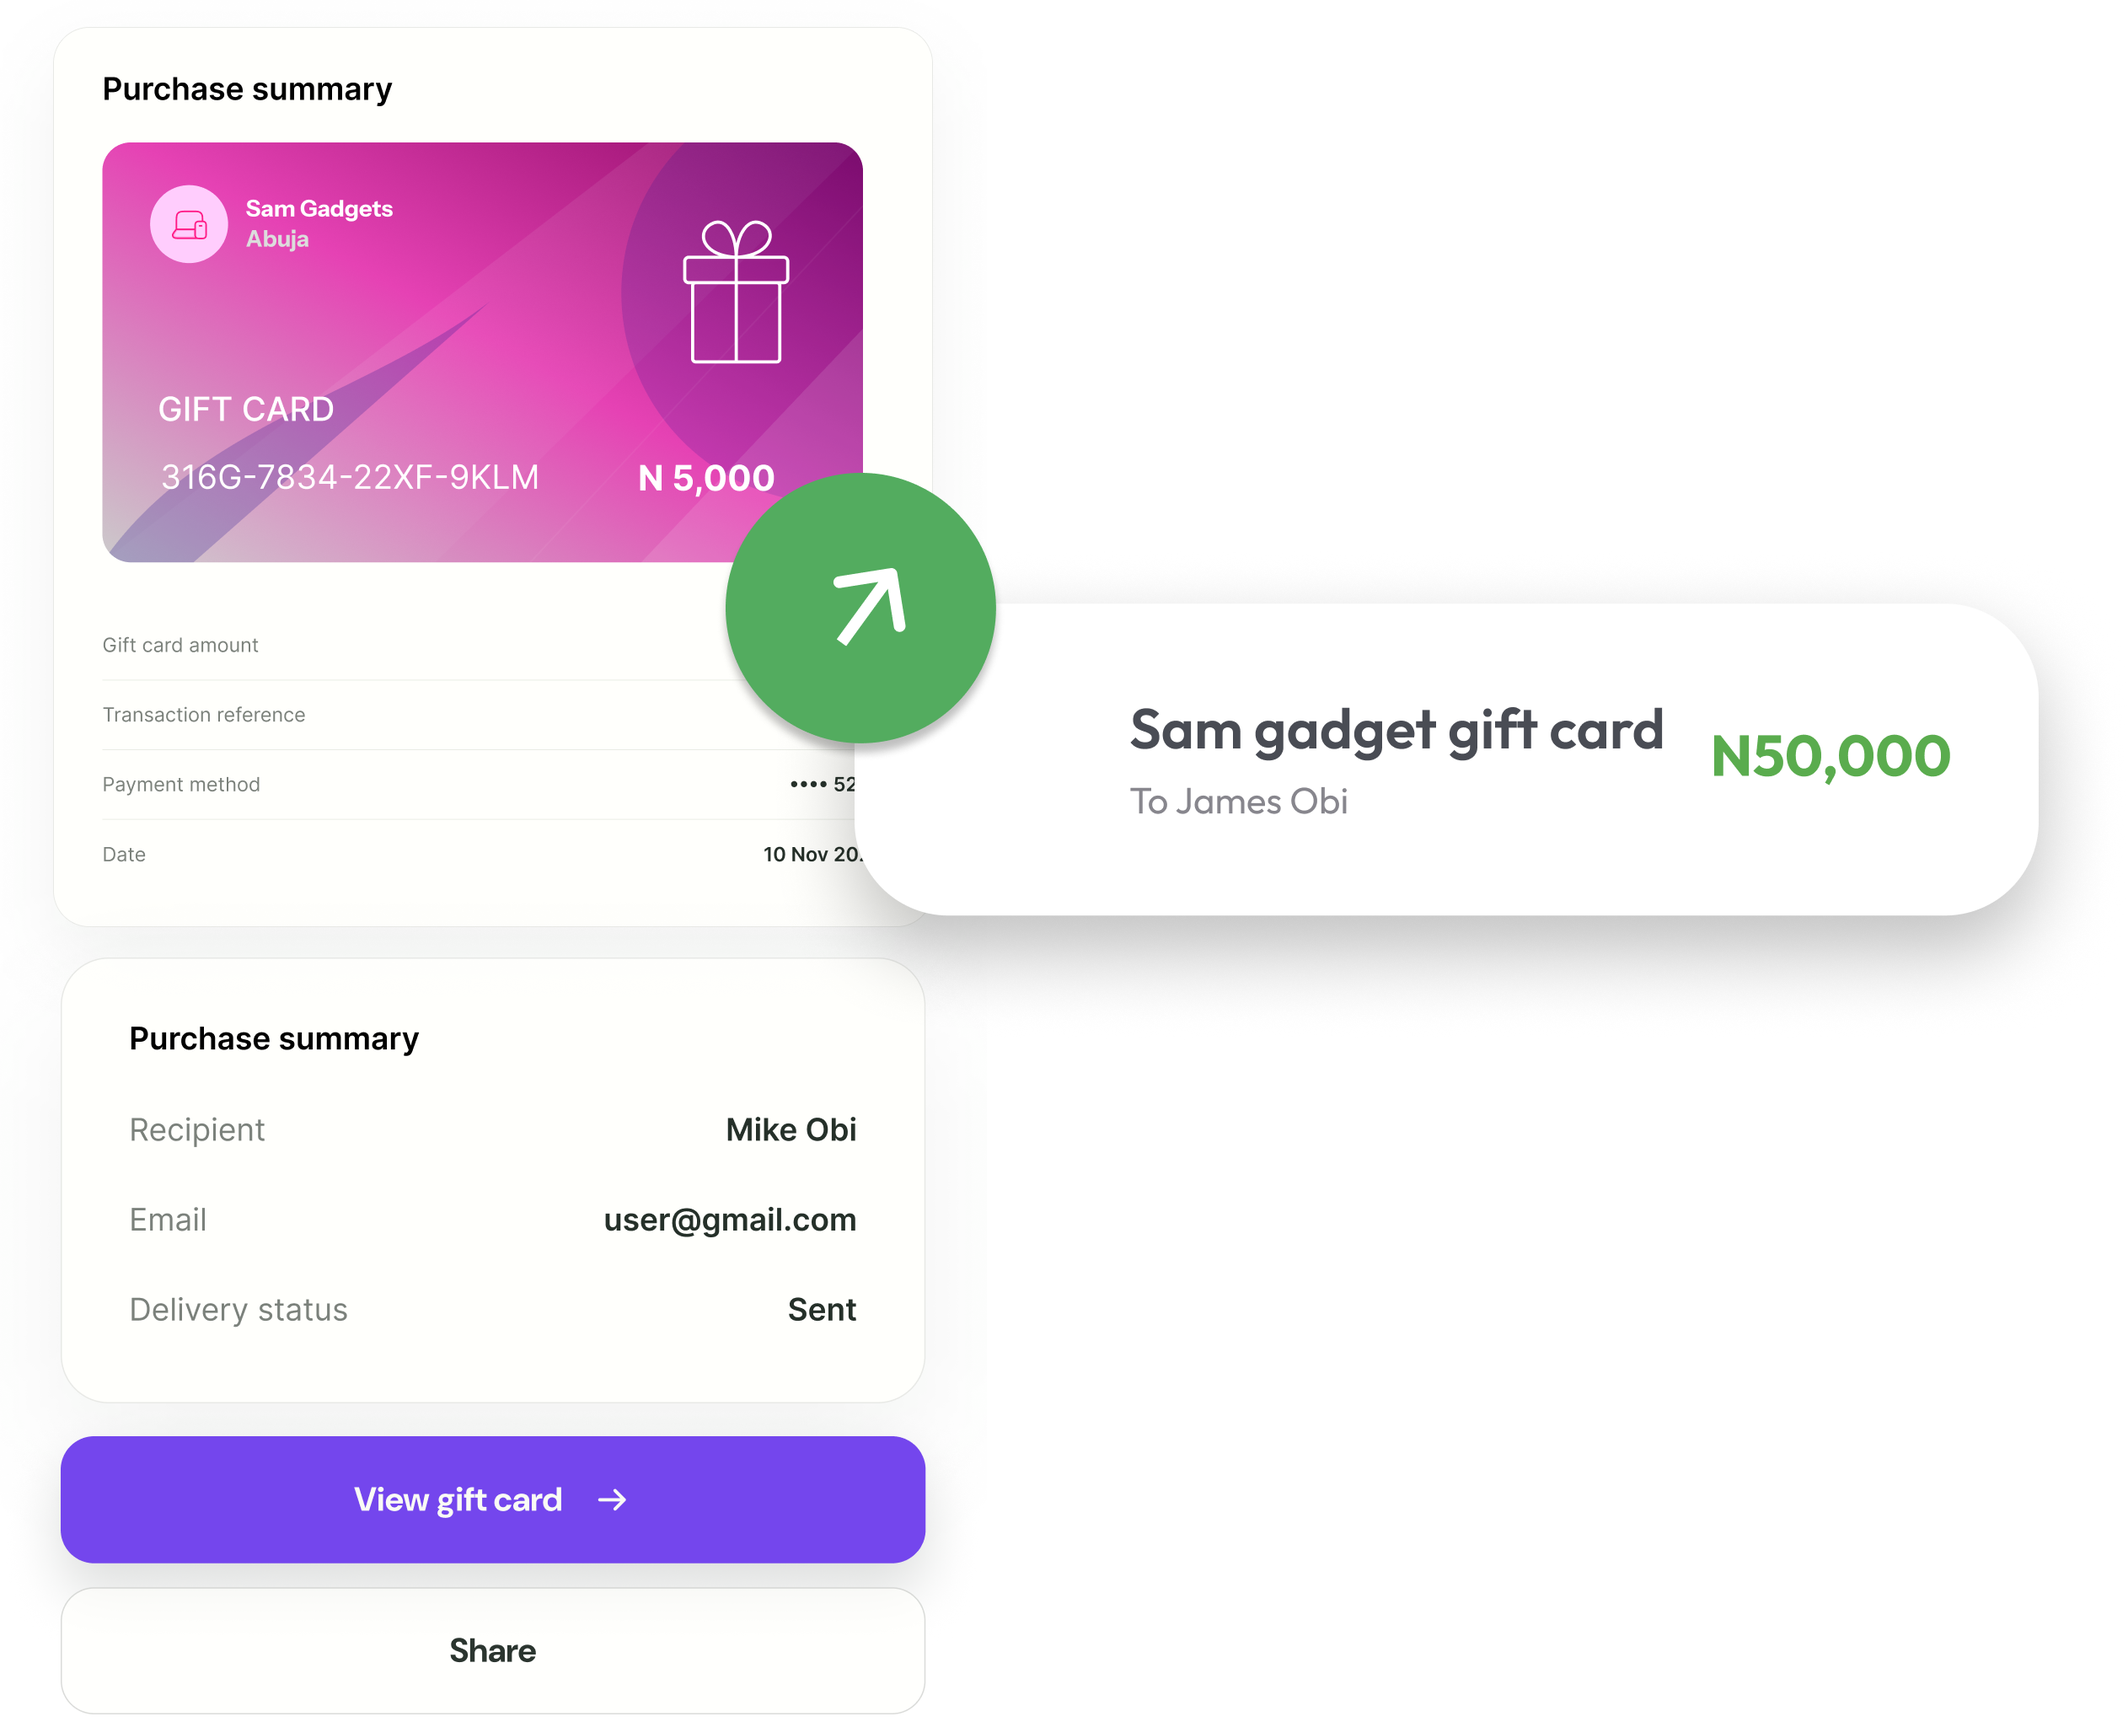
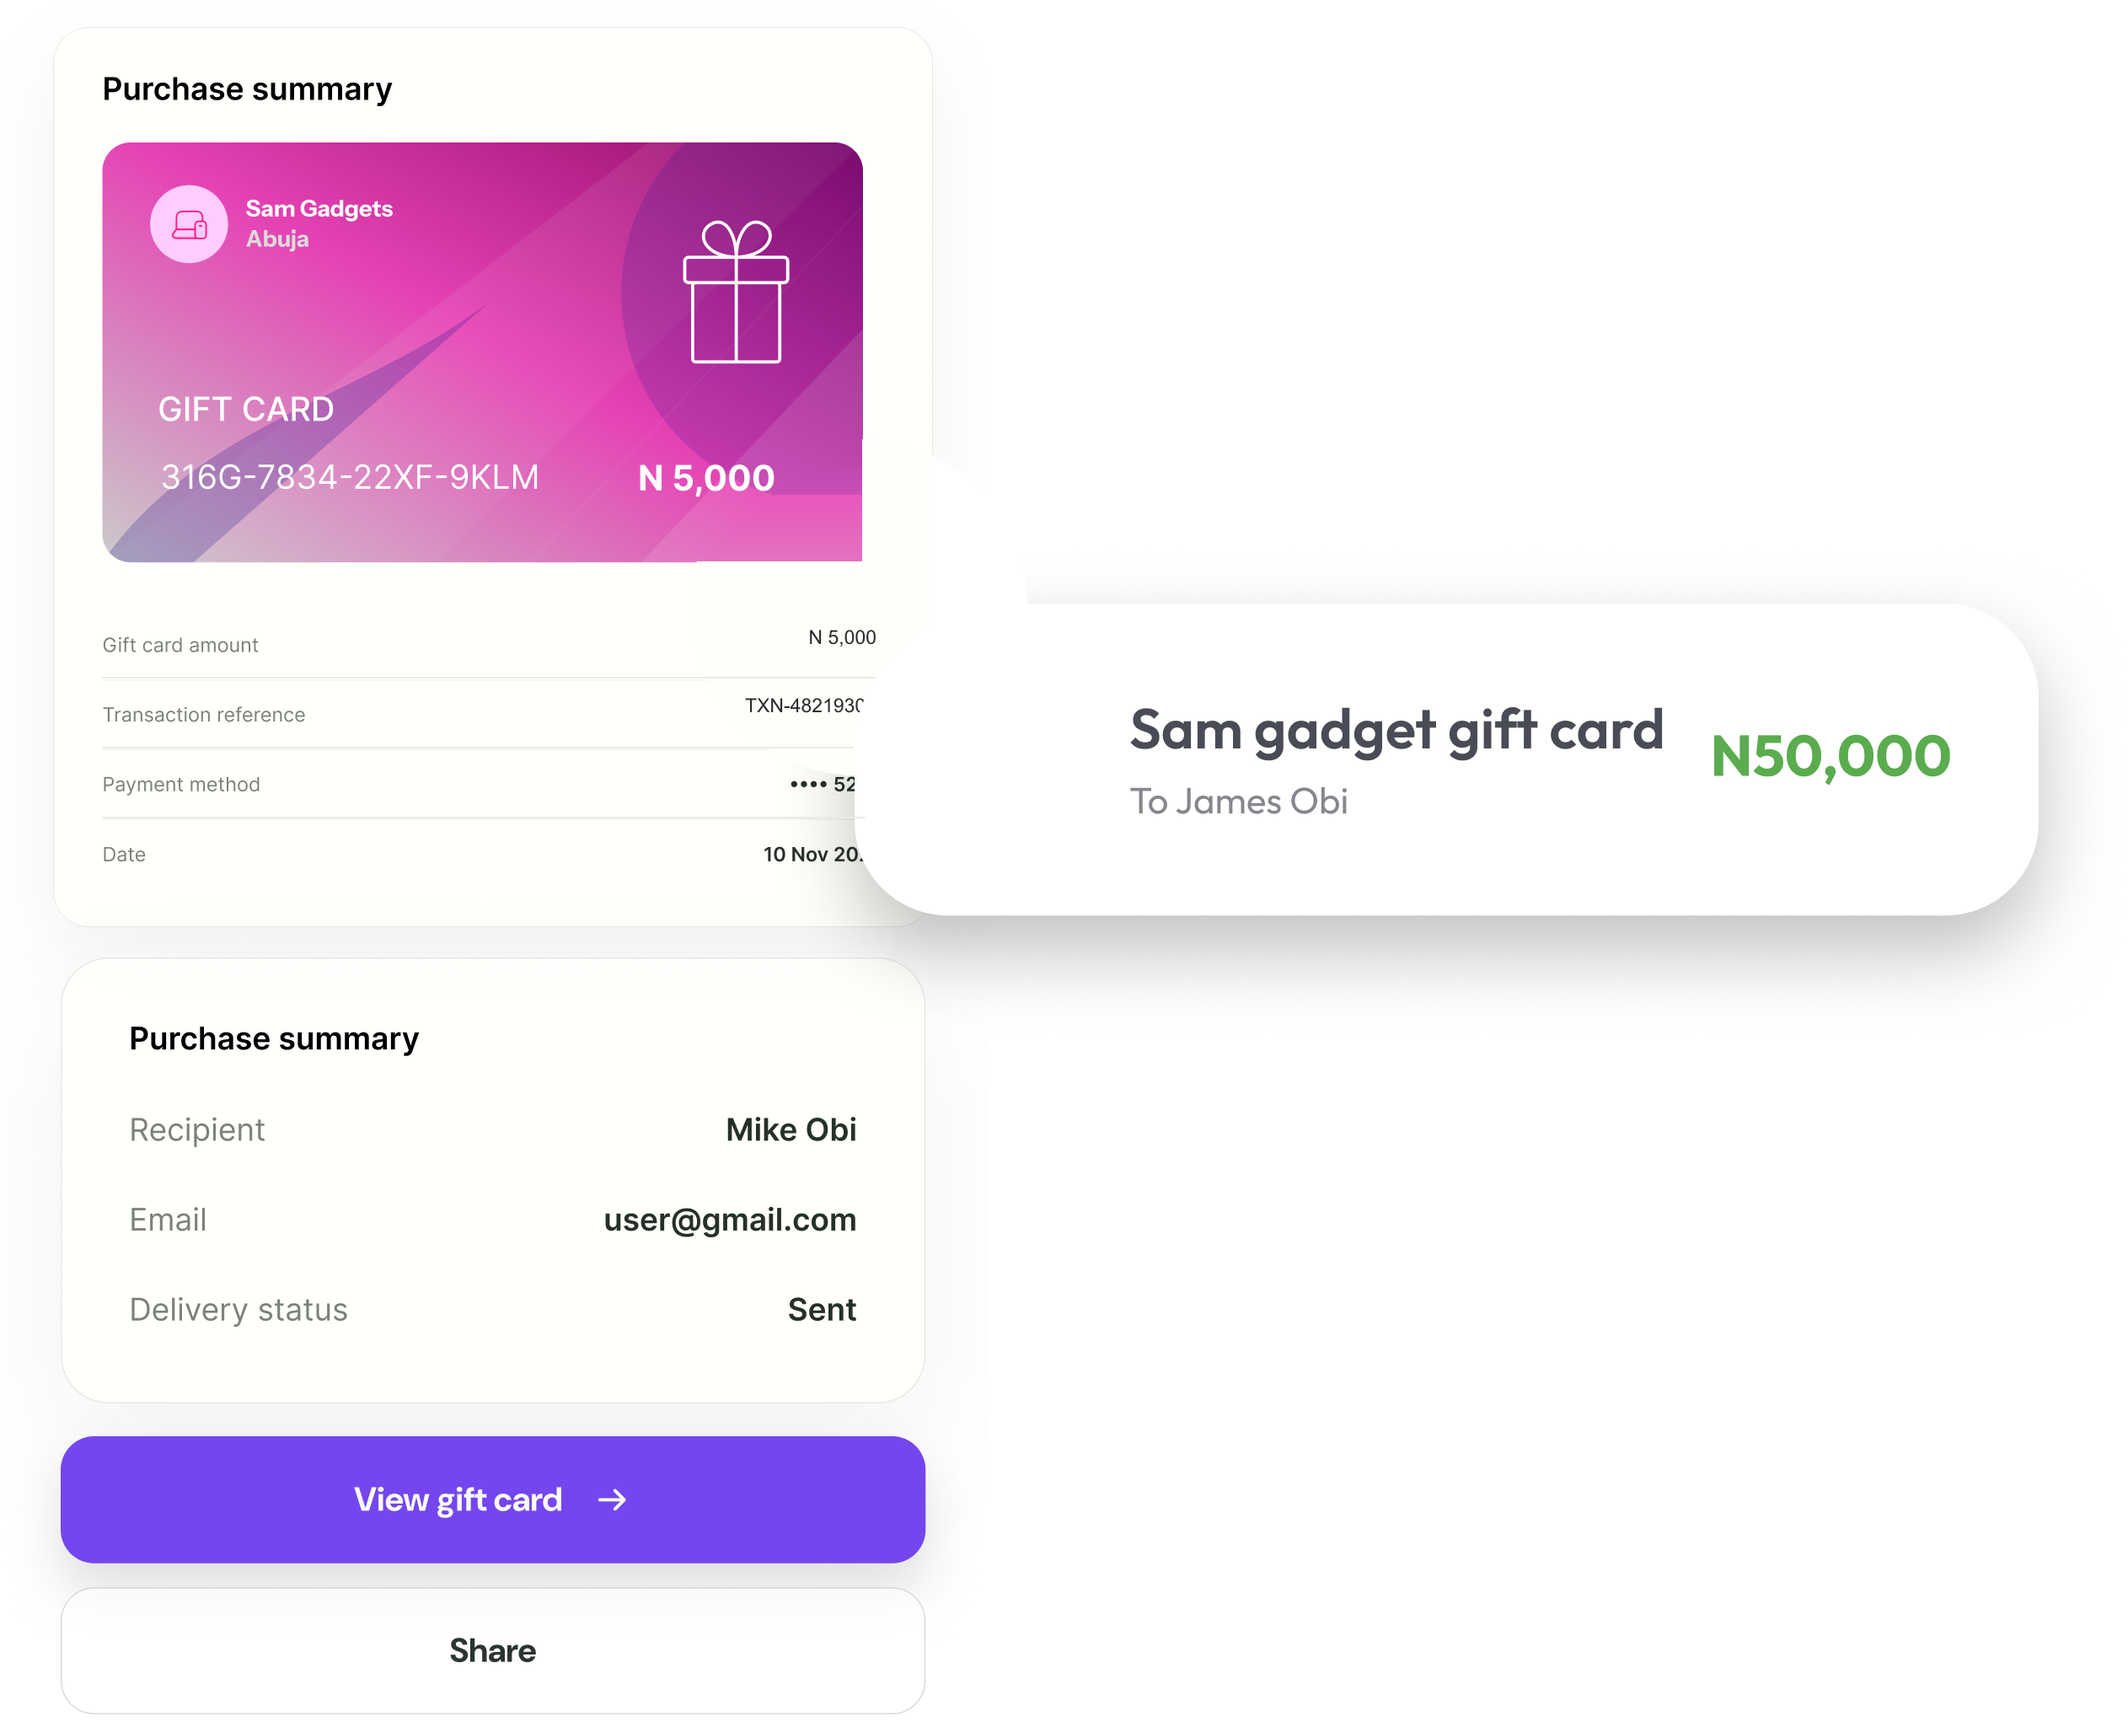
Store gift cards: green arrow circle removed from the purchase picture

Changed region(s): [[0.3398, 0.2499, 0.4943, 0.4373]]

diff --git a/apps/marketing-web/store-gift-cards.html b/apps/marketing-web/store-gift-cards.html
@@ -276,7 +276,7 @@
               <div class="pl-visual__box pl-visual__box--center"><div class="pl-cust pl-cust--g1"><img src="assets/GiftCards/choose.webp?v=73cc52c8" class="oc-art pl-slot" alt="A customer choosing a gift card from the available cards" width="2400" height="1173" loading="lazy" decoding="async"></div></div>
             </div>
             <div class="pl-flow__layer pl-flow__layer--2">
-              <div class="pl-visual__box pl-visual__box--center"><div class="pl-cust pl-cust--g2"><img src="assets/GiftCards/share.webp?v=394c86eb" class="oc-art pl-slot" alt="A customer buying a gift card and sharing it with a friend" width="1400" height="1136" loading="lazy" decoding="async"></div></div>
+              <div class="pl-visual__box pl-visual__box--center"><div class="pl-cust pl-cust--g2"><img src="assets/GiftCards/share.webp?v=b1829be2" class="oc-art pl-slot" alt="A customer buying a gift card and sharing it with a friend" width="1400" height="1136" loading="lazy" decoding="async"></div></div>
             </div>
             <div class="pl-flow__layer pl-flow__layer--3">
               <div class="pl-visual__box pl-visual__box--center"><div class="pl-cust pl-cust--g3"><img src="assets/GiftCards/redeem.webp?v=615406fb" class="oc-art pl-slot" alt="A recipient redeeming a gift card in store" width="1500" height="929" loading="lazy" decoding="async"></div></div>
